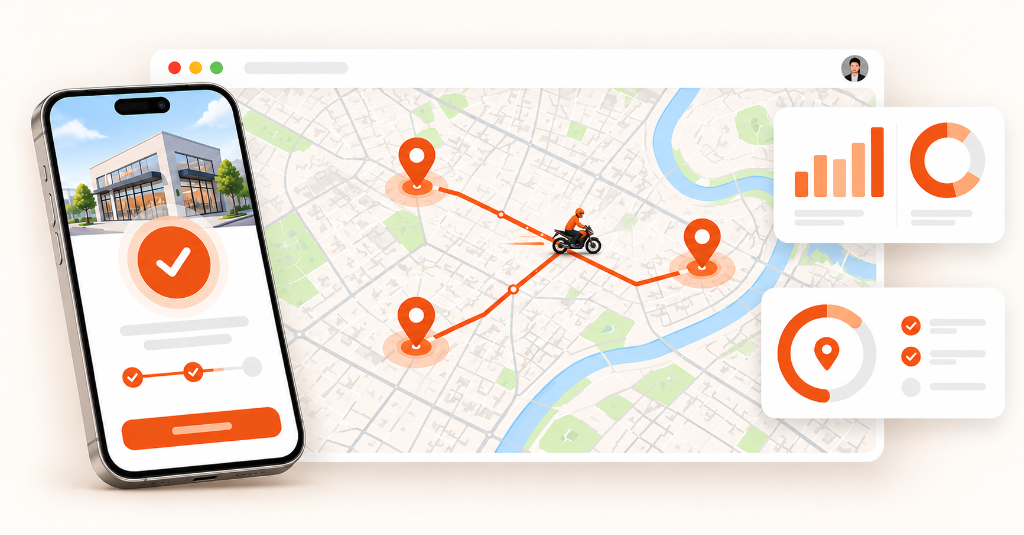
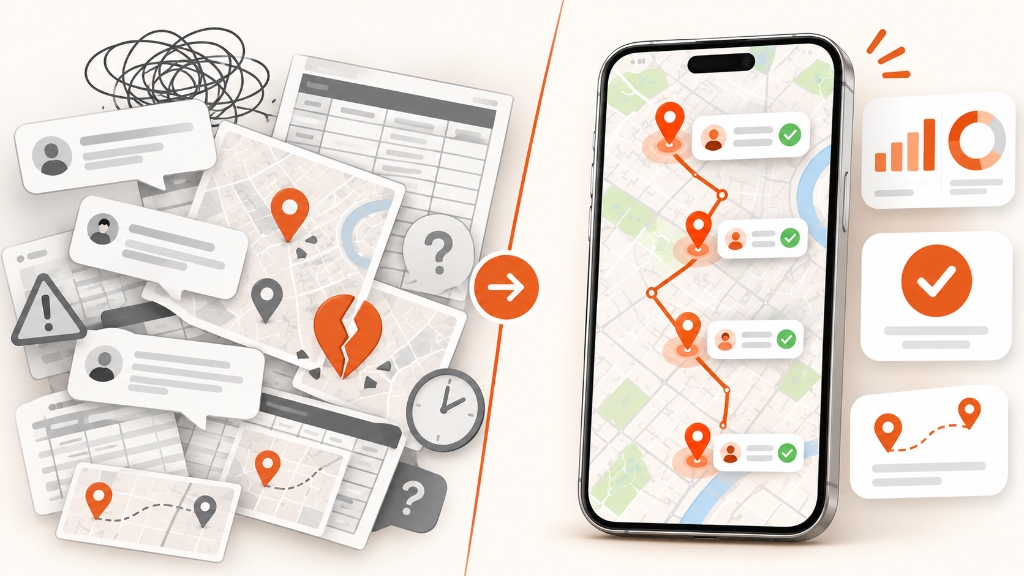
feat(blog): add all 3 custom infographics to Field Sales Tracking guide sections and update cover

diff --git a/src/data/blogData.ts b/src/data/blogData.ts
@@ -123,6 +123,11 @@ export const BLOG_POSTS: BlogPost[] = [
           'Deploying dedicated [field sales tracking software](/product/field-sales-tracking) converts field operations from an honesty-dependent administrative burden into an automated, data-driven revenue engine. Below is an engineering-first breakdown of how [field force automation](/blog/field-sales-automation-software-india) works, why manual tracking fails at scale, and the architectural requirements needed for field execution in India.',
           'Most distributed sales teams rely on a patchwork of consumer messaging apps and spreadsheet templates. While this approach has zero initial software cost, it incurs severe downstream operational losses:',
         ],
+        image: {
+          src: '/images/blog/field-sales-manual-vs-automated.jpg',
+          alt: 'Manual spreadsheets and WhatsApp reporting vs automated mobile beat tracking',
+          caption: 'From chaotic WhatsApp pings and disputed spreadsheets to verified, sequential counter check-ins and automated analytics.',
+        },
         table: {
           headers: ['Friction Point', 'Manual / WhatsApp Workflow', 'Automated Field Tracking Platform'],
           rows: [
@@ -165,9 +170,9 @@ export const BLOG_POSTS: BlogPost[] = [
           'To deliver measurable return on investment, field sales tracking software must be engineered specifically for Indian network realities, battery constraints, and field team behavior across dense tier-1 corridors and remote tier-2/tier-3 distribution belts.',
         ],
         image: {
-          src: '/images/blog/field-sales-tracking-software-india-guide.png',
-          alt: 'Field sales tracking mobile check-in app and live route map dashboard',
-          caption: 'Automated field sales tracking architecture: mobile geo-fenced counter check-ins paired with live beat route telematics and real-time counter coverage dashboards.',
+          src: '/images/blog/field-sales-geofence-checkin.jpg',
+          alt: 'Geo-fenced retailer counter check-in verification with mobile app lock',
+          caption: 'Geo-fenced counter verification: GPS radius lock enforces physical presence within 50 meters of the retail storefront before unlocking check-in.',
         },
         bullets: [
           '**1. Geo-Fenced Counter Check-Ins**: A location pin sent on WhatsApp proves where a phone was for one second; it does not prove a client meeting took place. Modern field tracking software enforces geo-fencing: the sales executive can only initiate a "Client Check-in" when their device’s GPS coordinates match the verified latitude/longitude of the distributor or retailer. Once checked in, a session timer tracks dwell time at the counter.',
@@ -182,6 +187,11 @@ export const BLOG_POSTS: BlogPost[] = [
         content: [
           'At [GrowthTechSys](https://growthtechsys.com/), we build field sales automation systems engineered around simplicity and real-world field compliance across Indian logistics corridors, FMCG distributor networks, and pharmaceutical sales beats:',
         ],
+        image: {
+          src: '/images/blog/field-sales-telematics-dashboard.png',
+          alt: 'Field telematics route tracking and manager analytics dashboard',
+          caption: 'Enterprise telematics architecture: live GPS beat route trajectories convert into dispute-free travel allowances and real-time counter coverage.',
+        },
         bullets: [
           '**Minimal Battery Footprint**: Intelligent location sampling algorithms poll high-accuracy GPS only during state transitions (walking, driving, arriving at a geo-fence) rather than running continuous battery-draining polling, typically consuming less than 6–8% battery over a 10-hour shift.',
           '**Unified Pipeline Integration**: Field data feeds directly into our [GrowthFlow CRM](/product/growthflow-crm) and enterprise workflows, syncing distributor orders with back-office accounting, inventory warehouses, and automated WhatsApp notification bots.',
